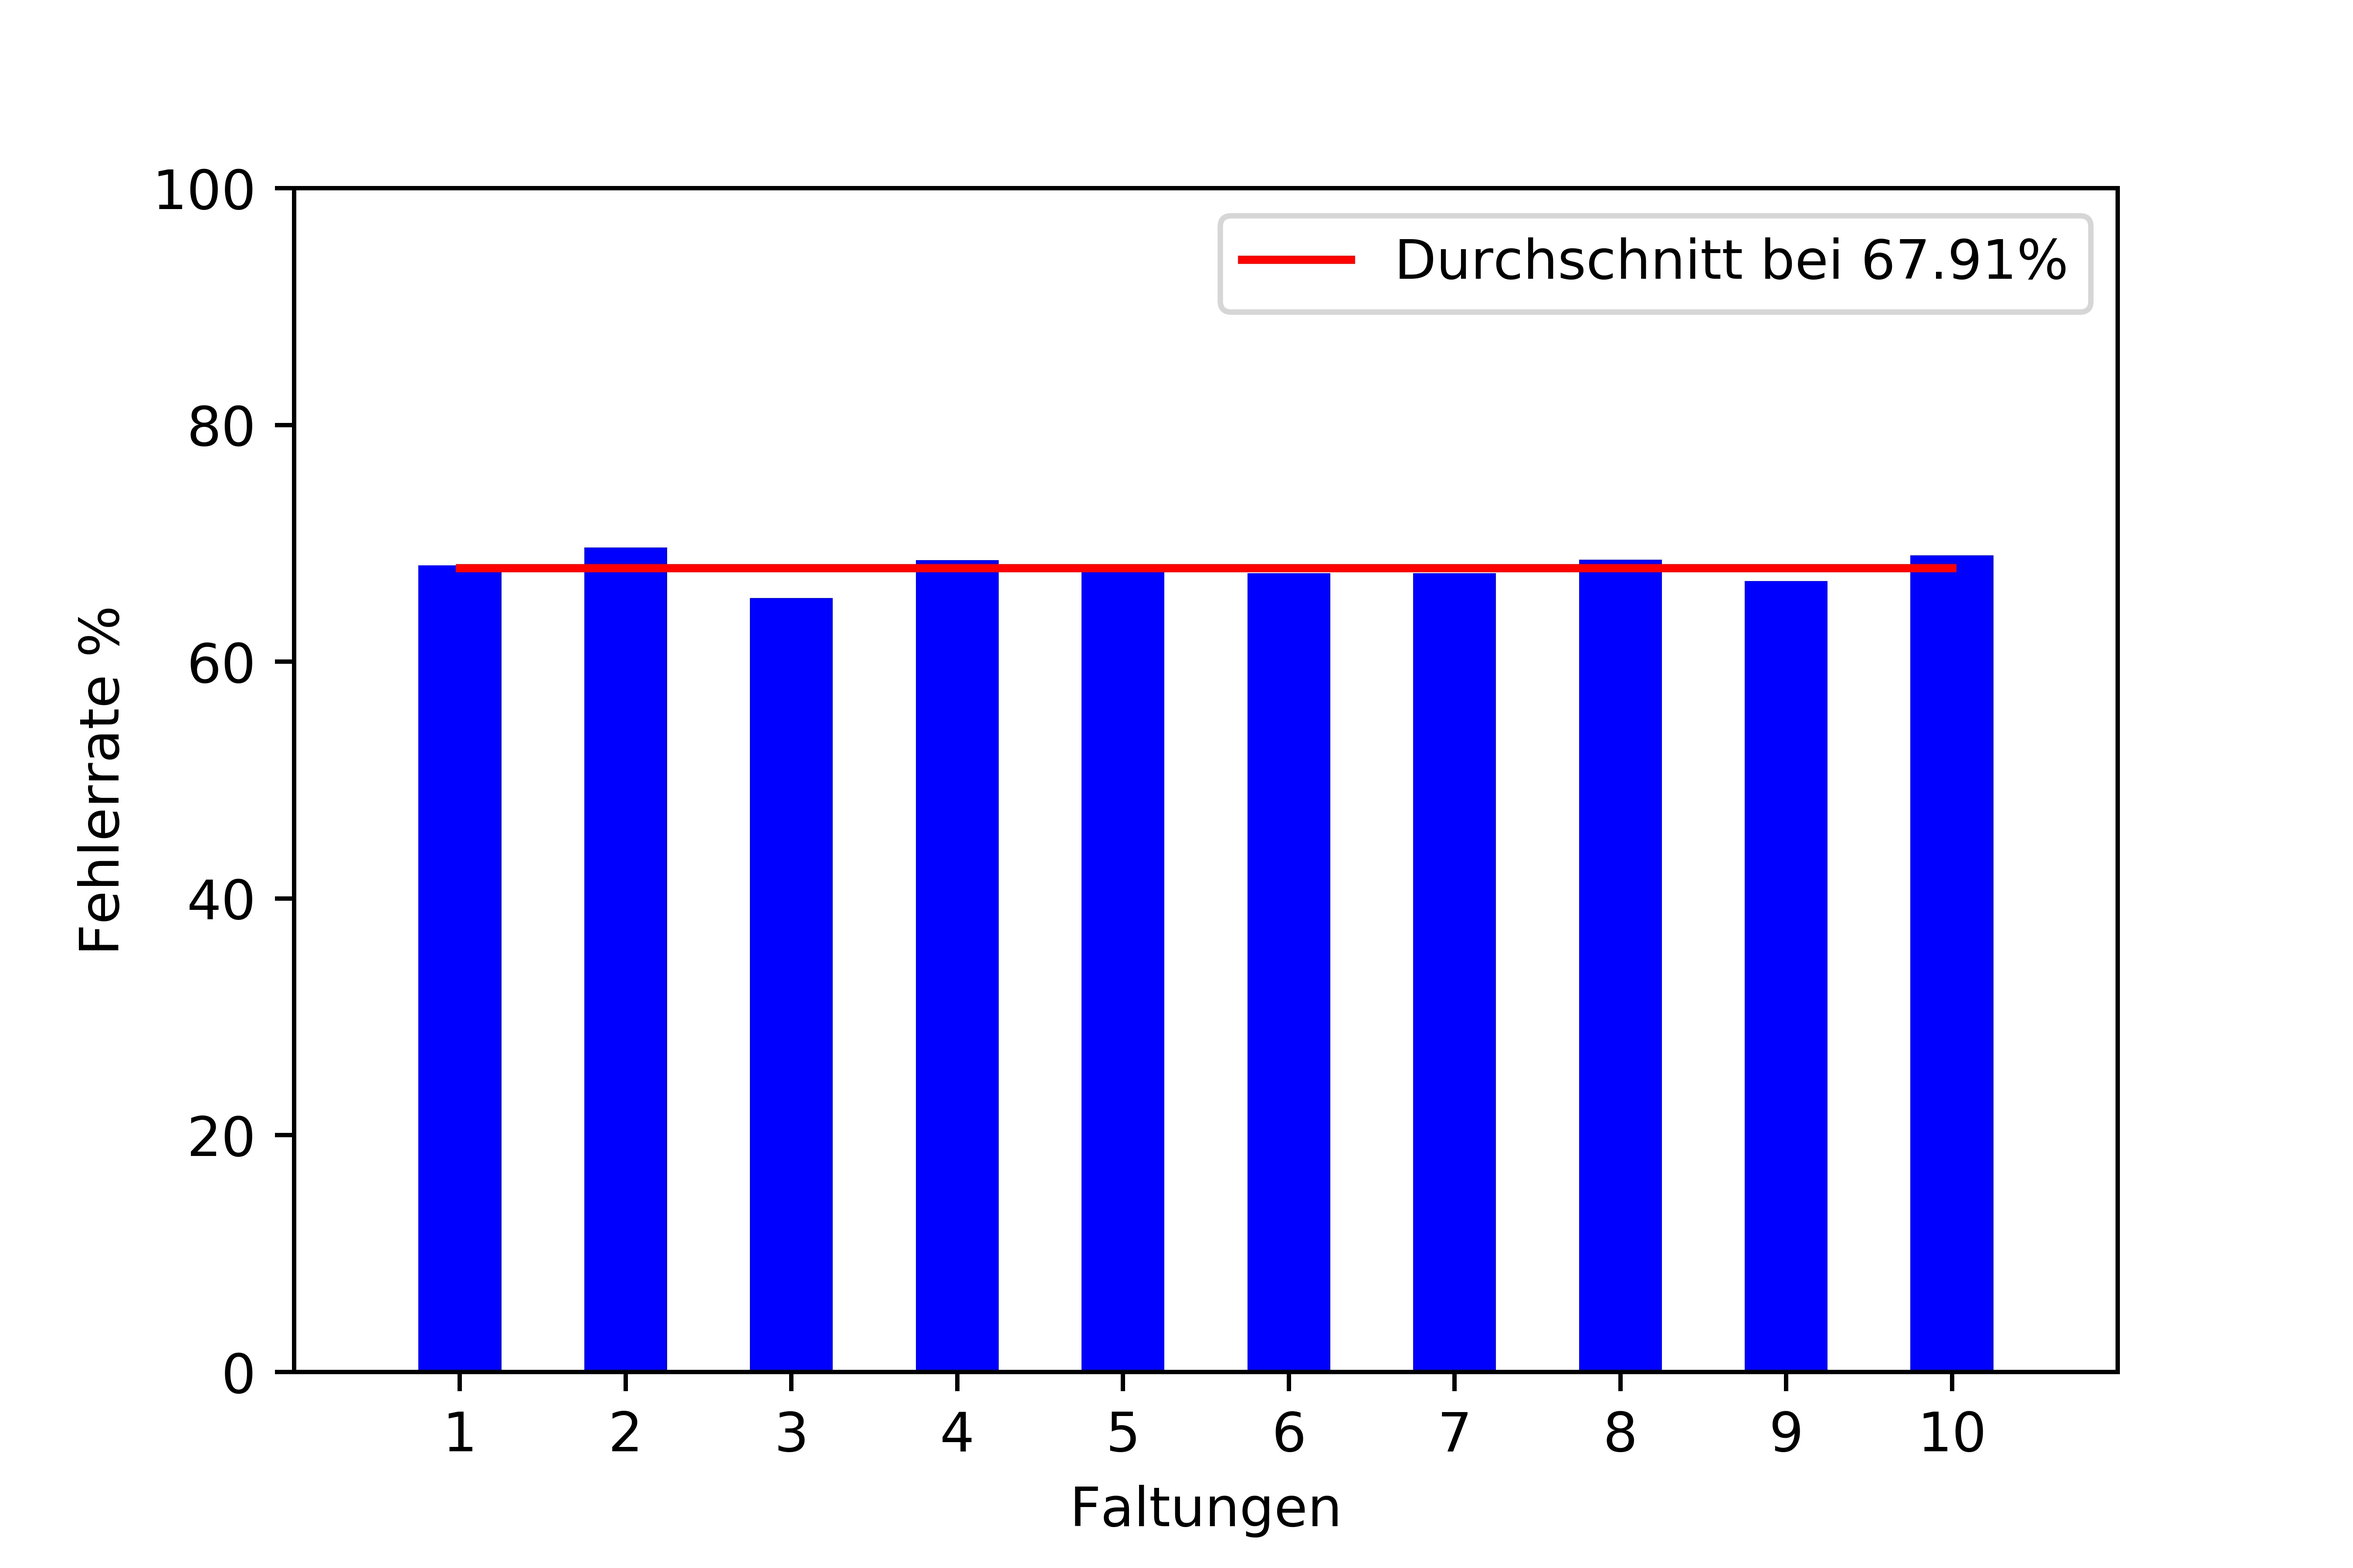
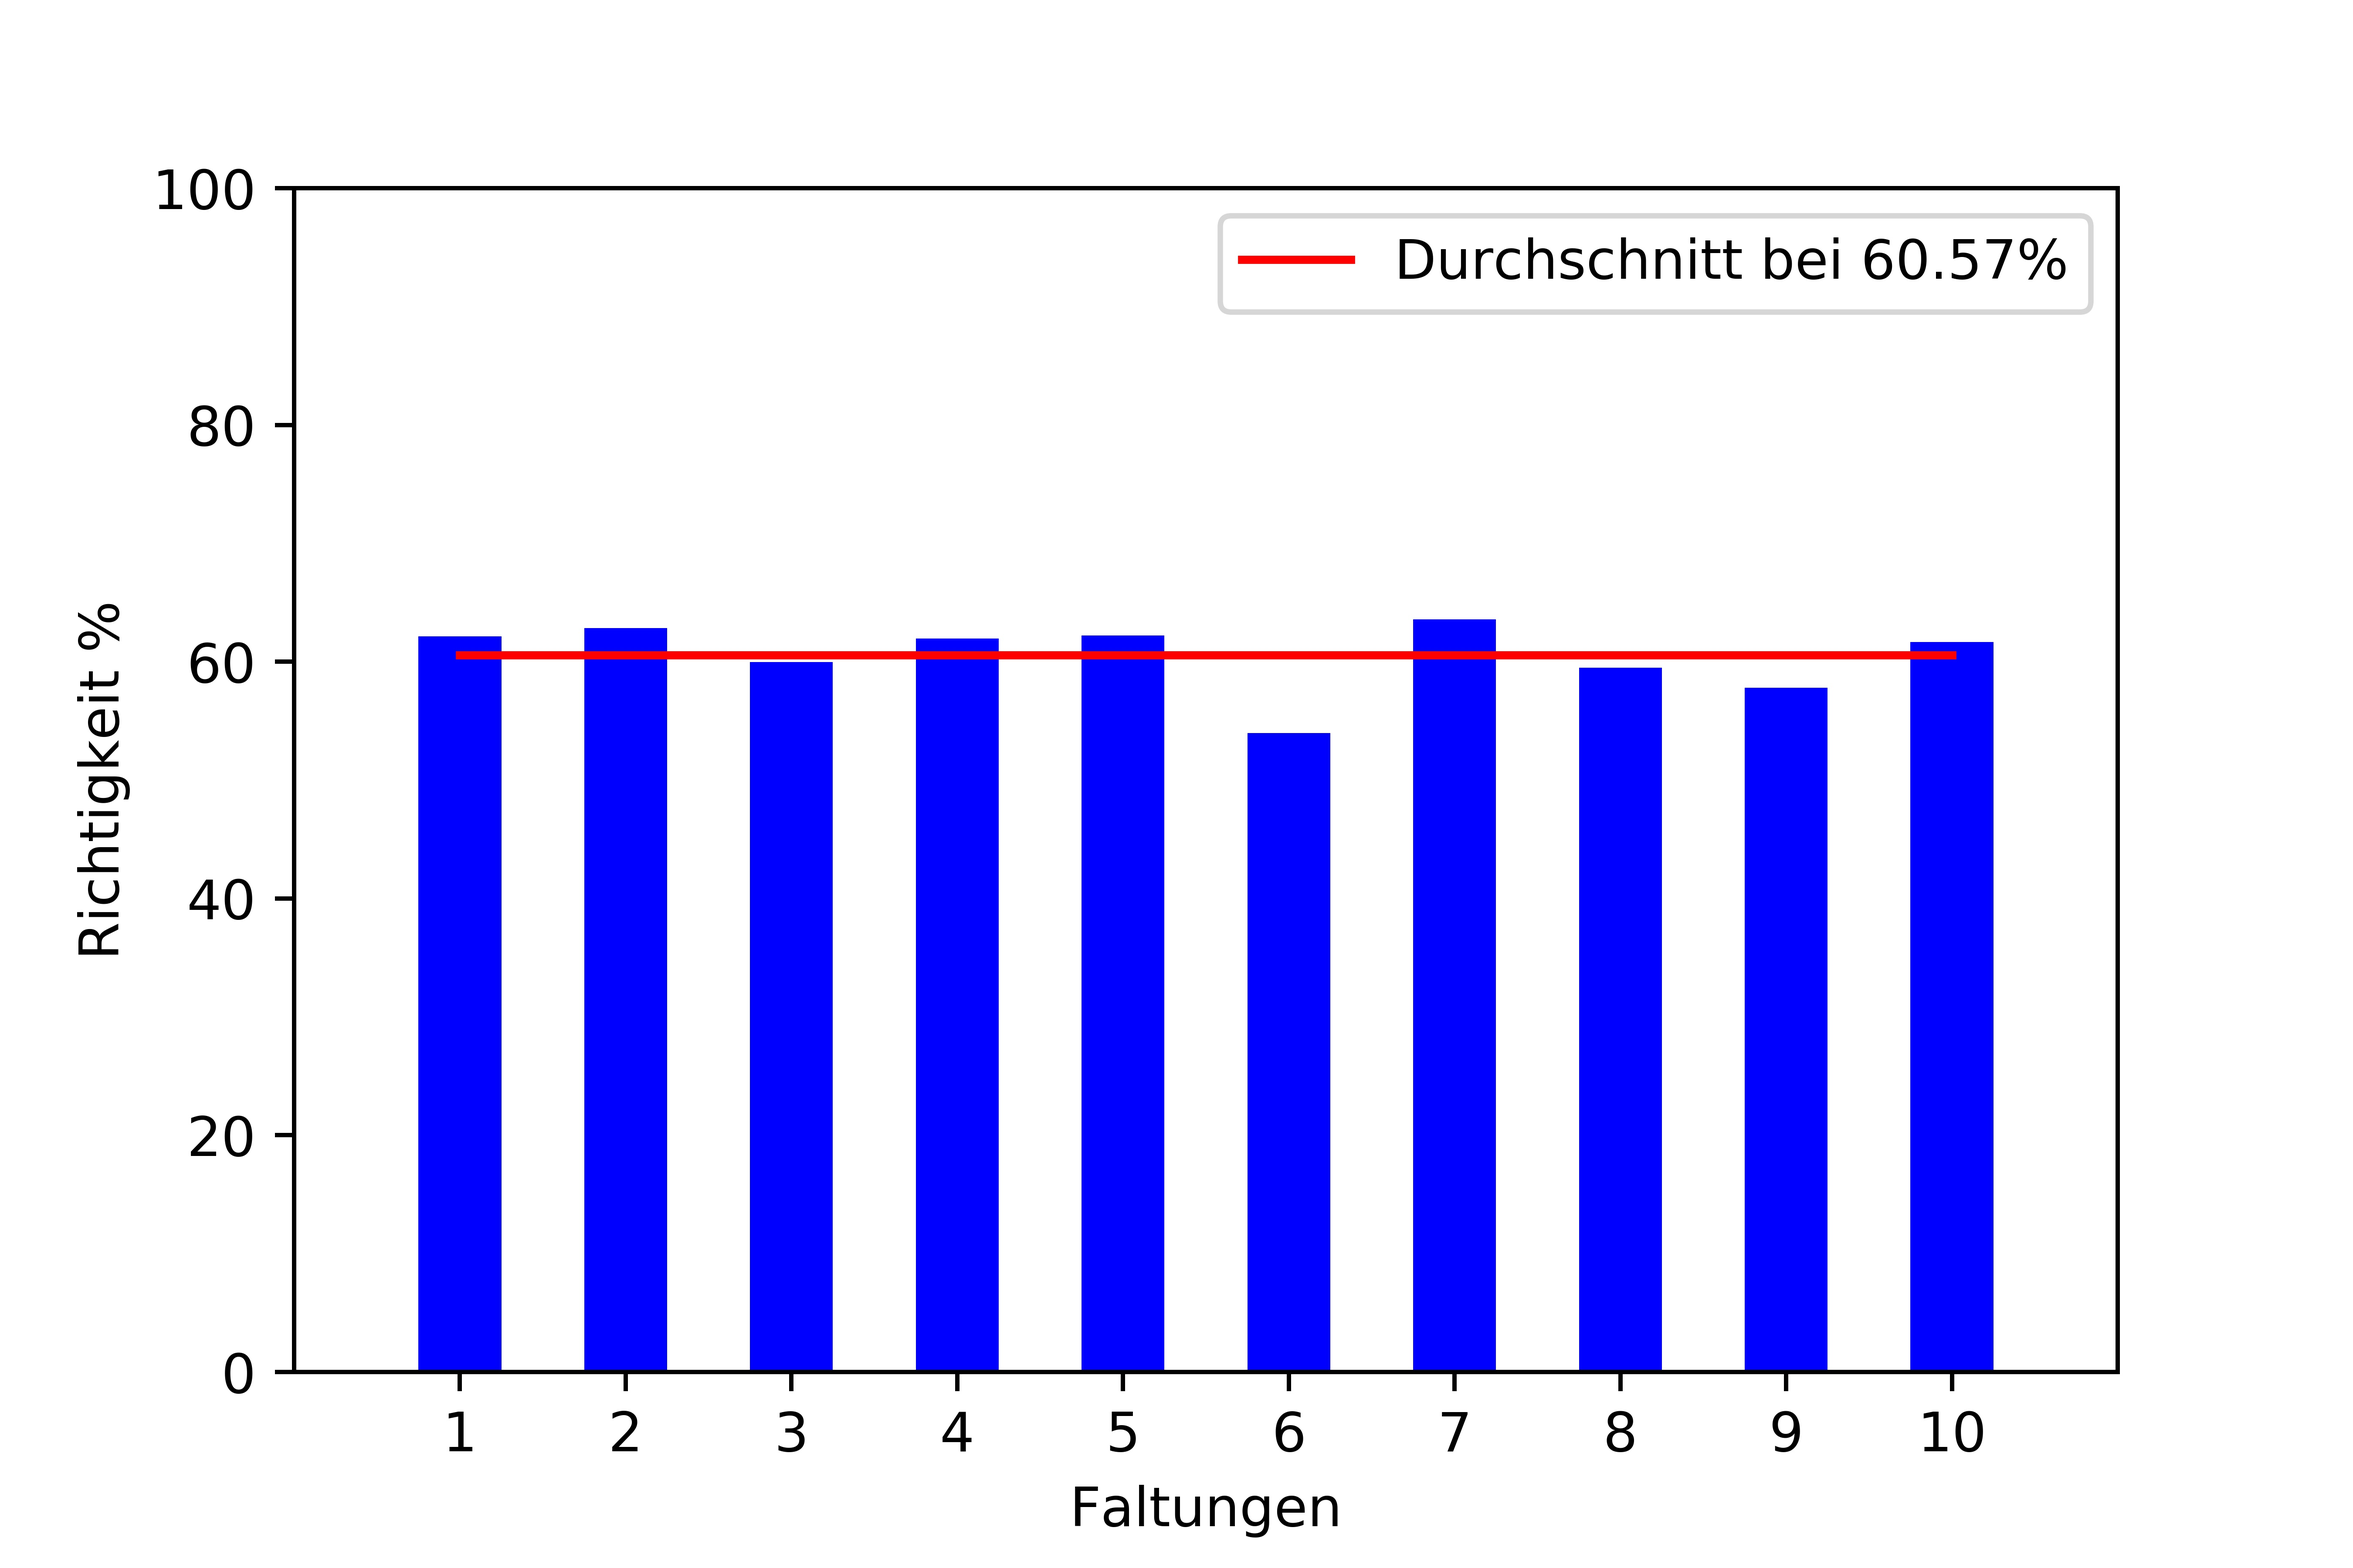
Bilderkorrektur

Changed region(s): [[0.1556, 0.3422, 0.8711, 0.4667], [0.0311, 0.3733, 0.0622, 0.6222], [0.8089, 0.1556, 0.84, 0.1867]]

diff --git a/plotter.py b/plotter.py
@@ -84,7 +84,7 @@ def plotBars( barsHigh, filename ):
     pl.bar(xIndex, np.multiply(barsHigh, 100), bar_width,  color="blue")
     pl.xticks(xIndex) # labels get centered
     
-    pl.ylabel('Fehlerrate %')
+    pl.ylabel('Richtigkeit %')
     pl.xlabel('Faltungen')
     
     pl.axis([0, 11, 0, 100])
